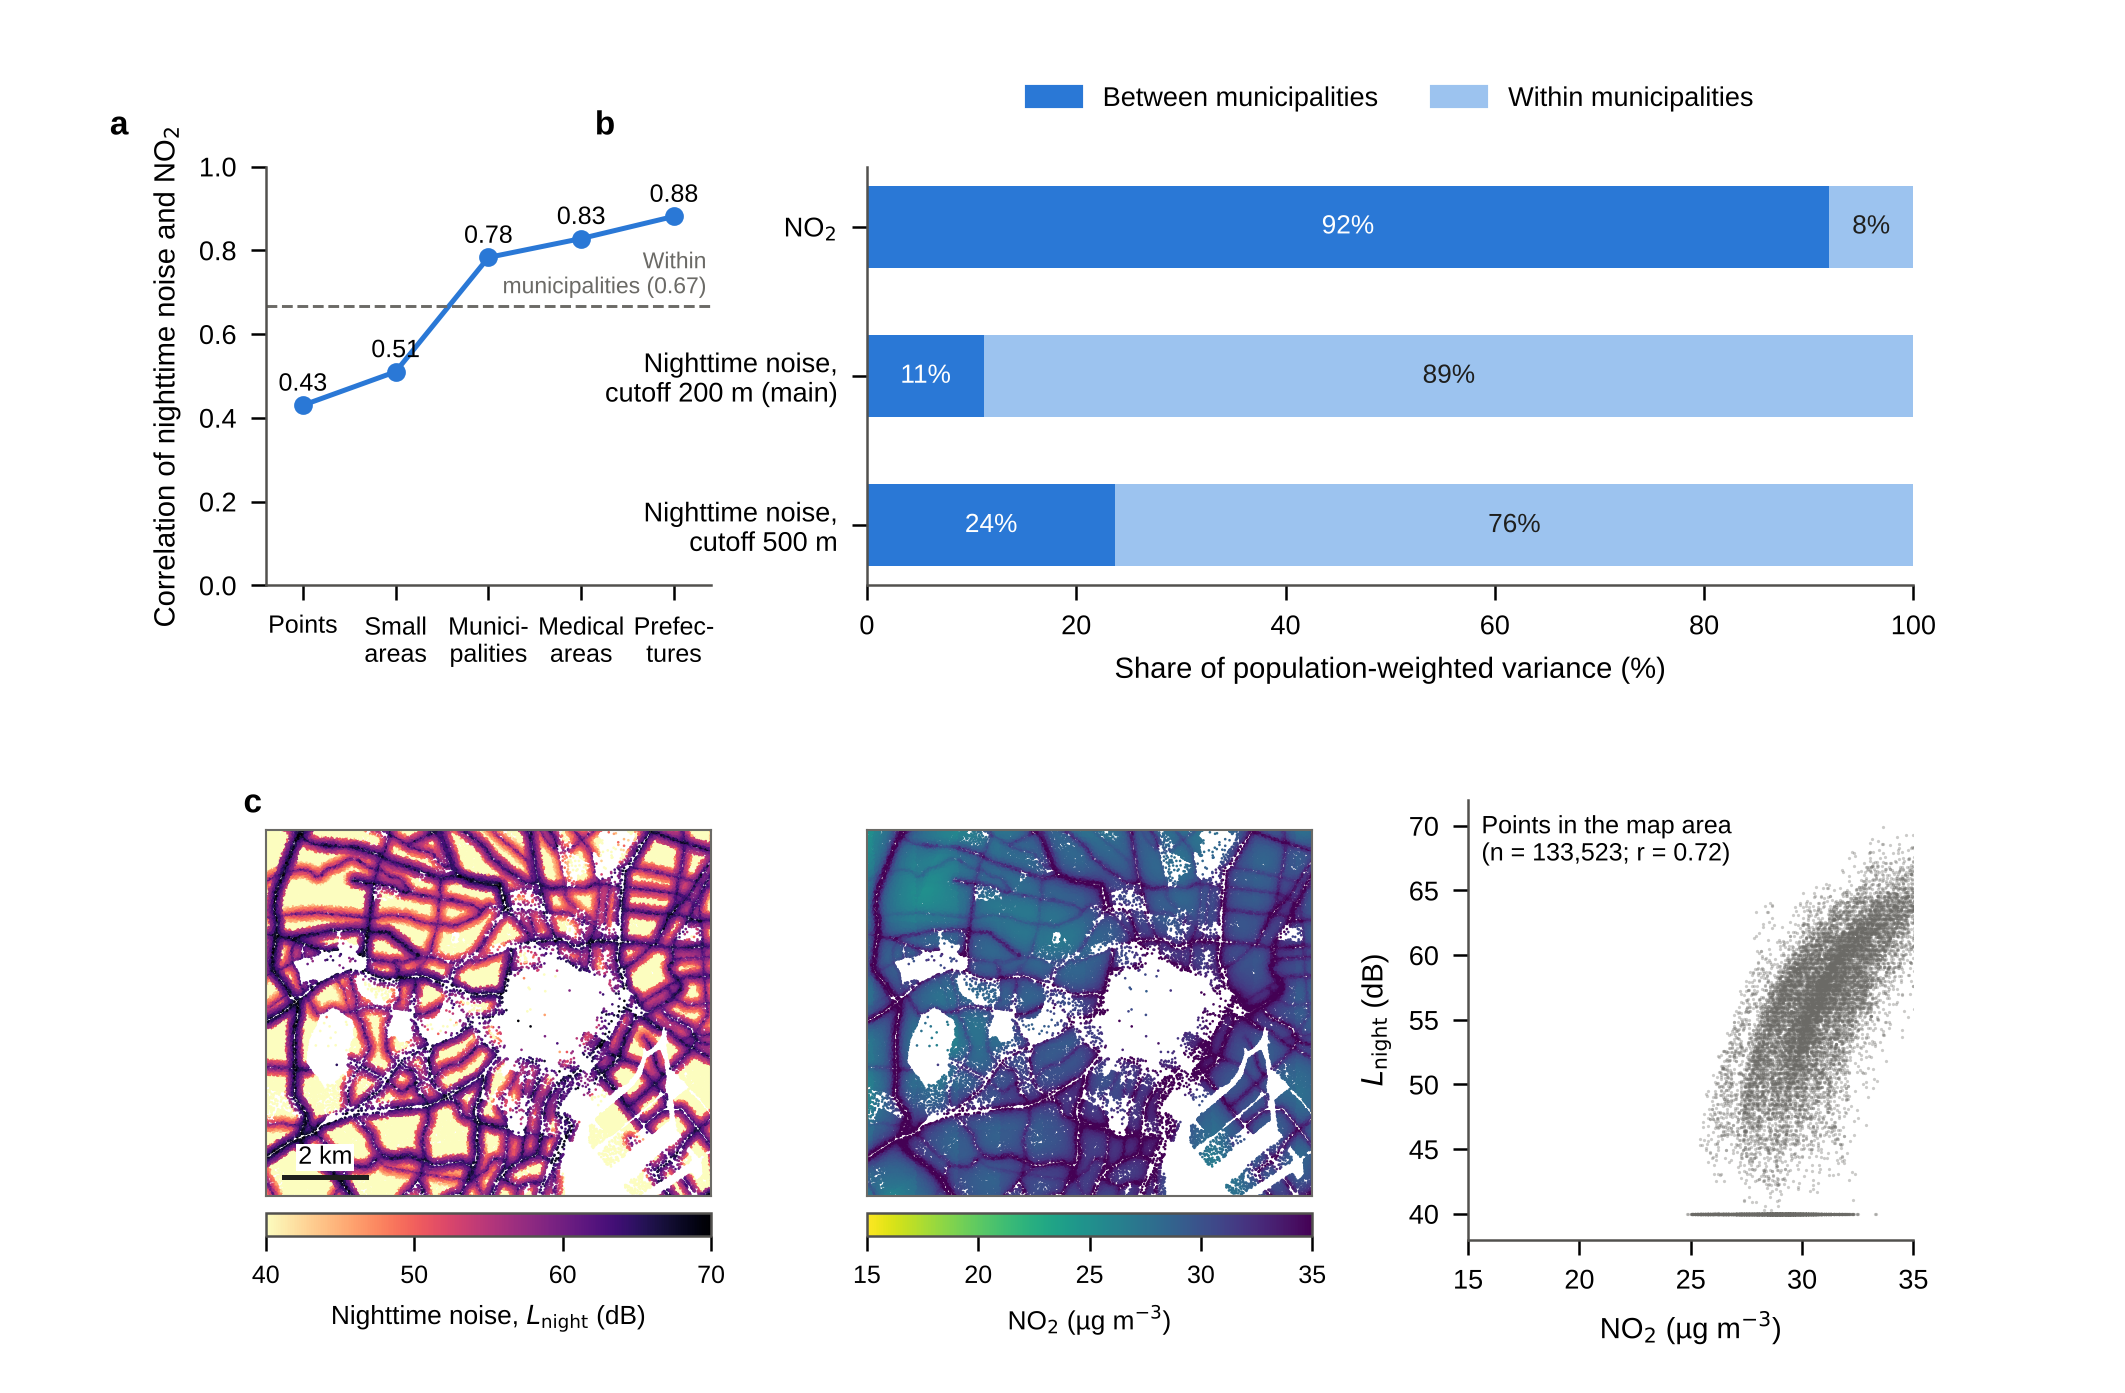
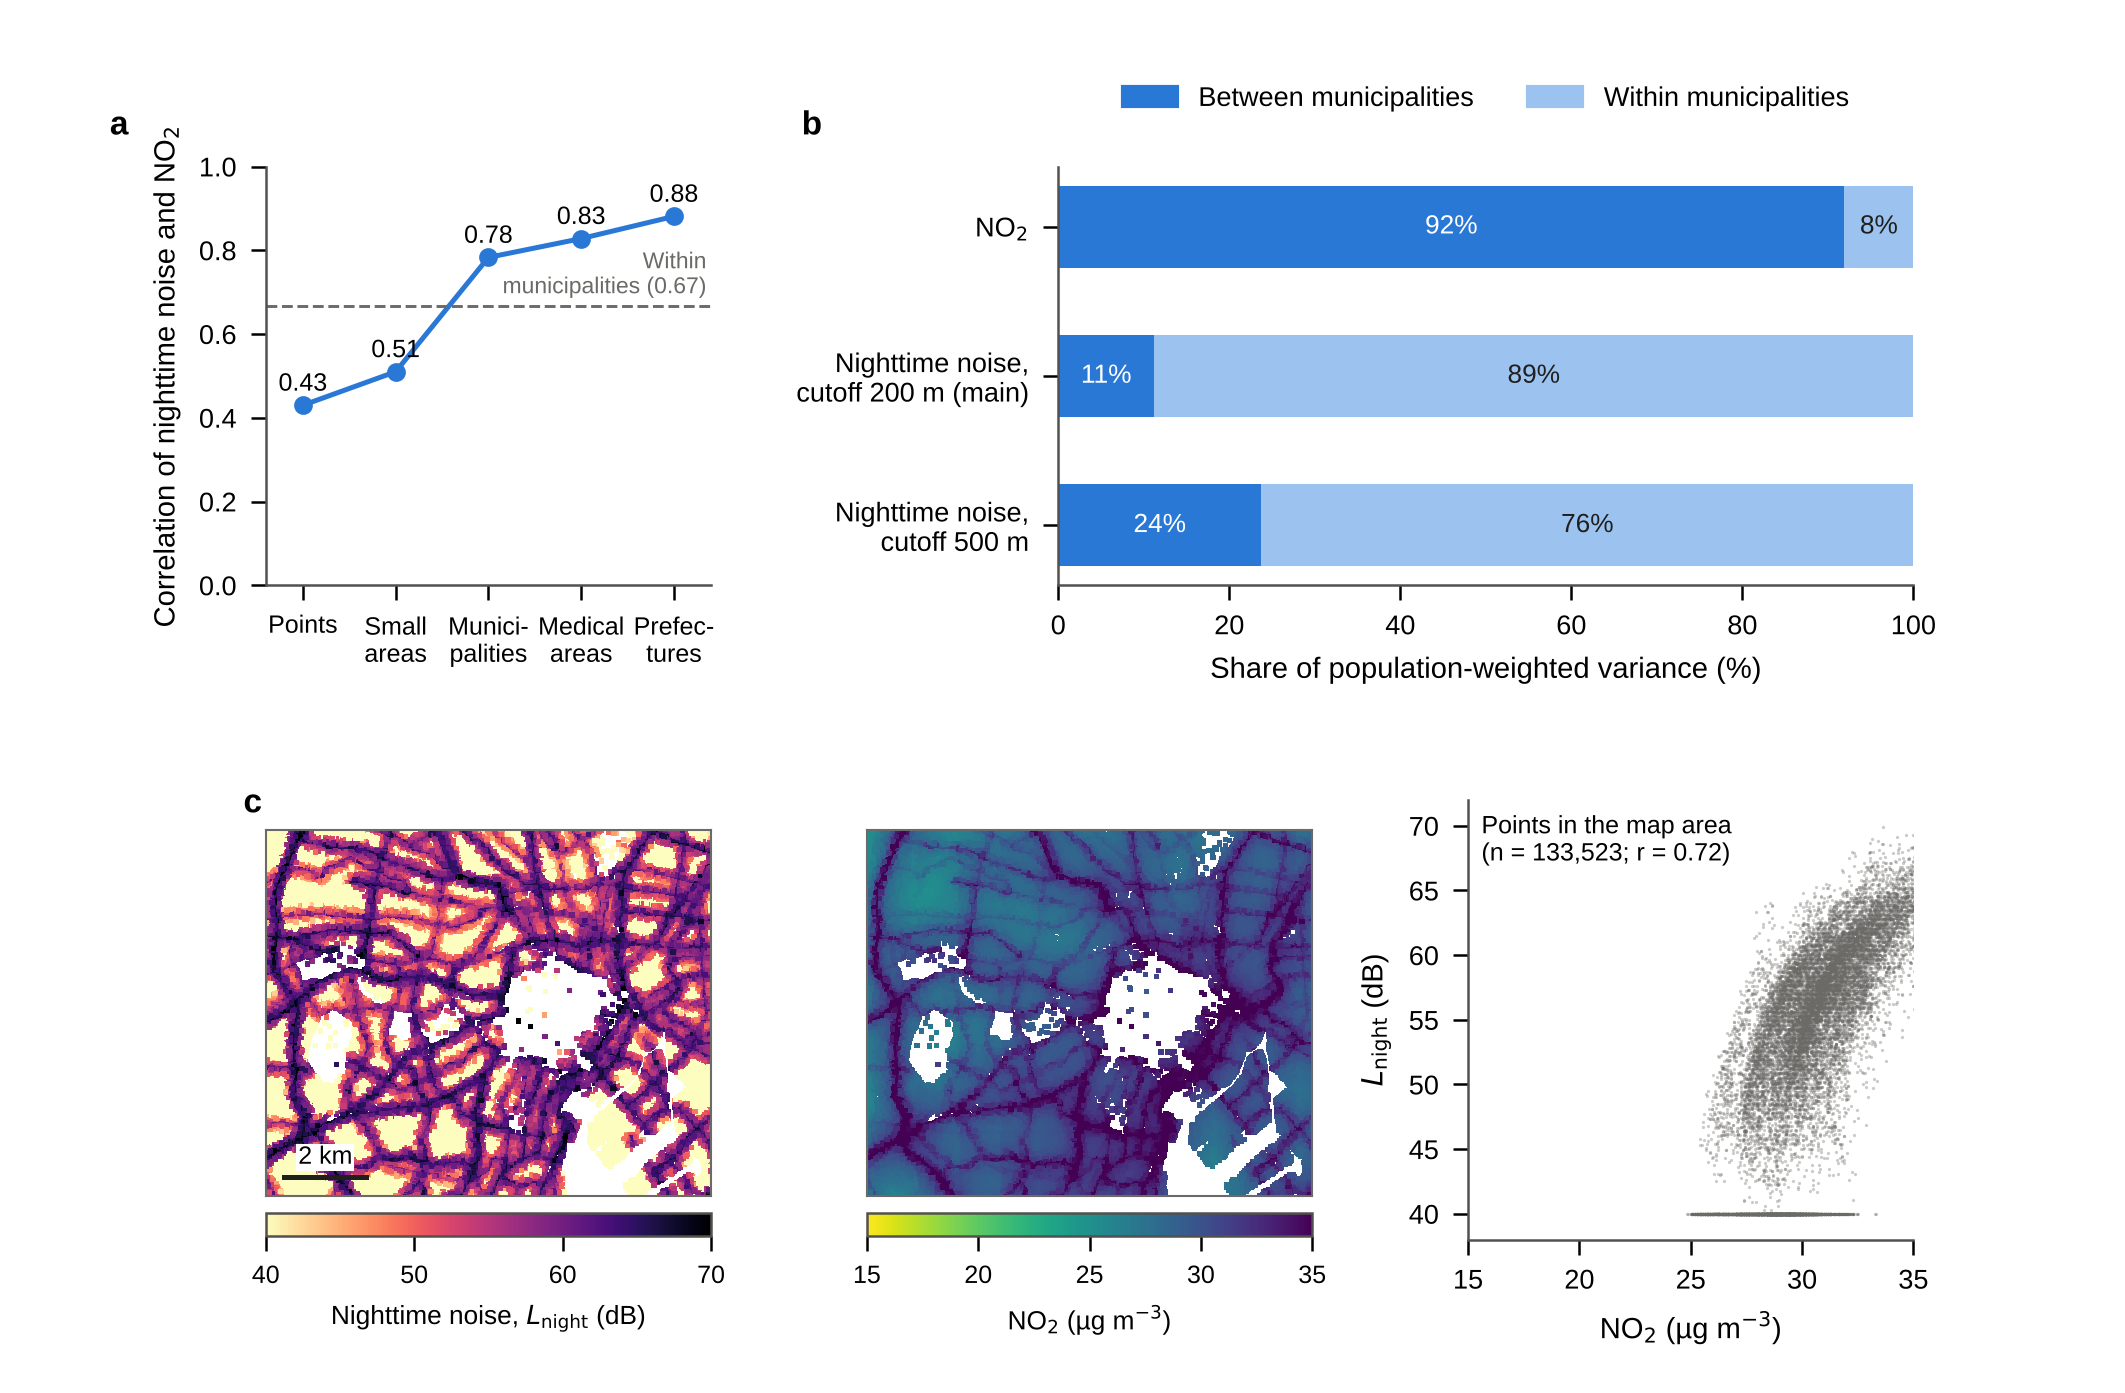
Figure 4: narrower panel b and denser point maps

diff --git a/src/make_figures.py b/src/make_figures.py
@@ -229,13 +229,14 @@ ax.set_yticks(y); ax.set_yticklabels([l for l, _ in rows]); ax.set_xlim(0, 100)
 ax.set_xlabel('Share of population-weighted variance (%)')
 h = [plt.Rectangle((0, 0), 1, 1, color=BLUE), plt.Rectangle((0, 0), 1, 1, color=LBLUE)]
 ax.legend(h, ['Between municipalities', 'Within municipalities'], loc='upper center', bbox_to_anchor=(.5, 1.25), ncol=2, frameon=False)
-panel(ax, 'b', -0.26, 1.06)
+panel(ax, 'b', -0.30, 1.06)
+pb = ax.get_position(); ax.set_position([pb.x0 + 0.09, pb.y0, pb.width - 0.09, pb.height])
 box = (139.68, 35.64, 139.80, 35.72)
 Z = R[(R.lon > box[0]) & (R.lon < box[2]) & (R.lat > box[1]) & (R.lat < box[3])]
 for j, (col, lab, cm, vmin, vmax) in enumerate([('Lnight_2021', 'Nighttime noise, $L_\\mathrm{night}$ (dB)', 'magma_r', 40, 70),
                                                  ('ug', 'NO$_2$ (µg m$^{-3}$)', 'viridis_r', 15, 35)]):
     ax = fig.add_subplot(gs[1, j])
-    sc = ax.scatter(Z.lon, Z.lat, c=Z[col], s=.4, lw=0, cmap=cm, vmin=vmin, vmax=vmax, rasterized=True)
+    sc = ax.scatter(Z.lon, Z.lat, c=Z[col], s=1.6, lw=0, marker='s', cmap=cm, vmin=vmin, vmax=vmax, rasterized=True)
     ax.set_xlim(box[0], box[2]); ax.set_ylim(box[1], box[3]); ax.set_aspect(1 / np.cos(np.radians(35.68)))
     ax.set_xticks([]); ax.set_yticks([])
     for s in ax.spines.values():
